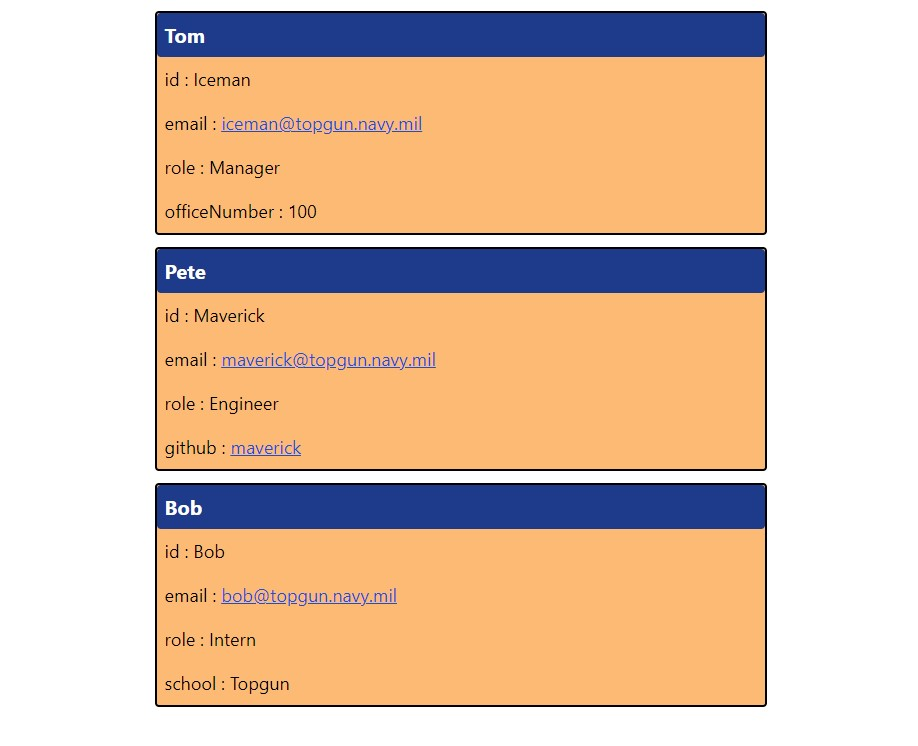
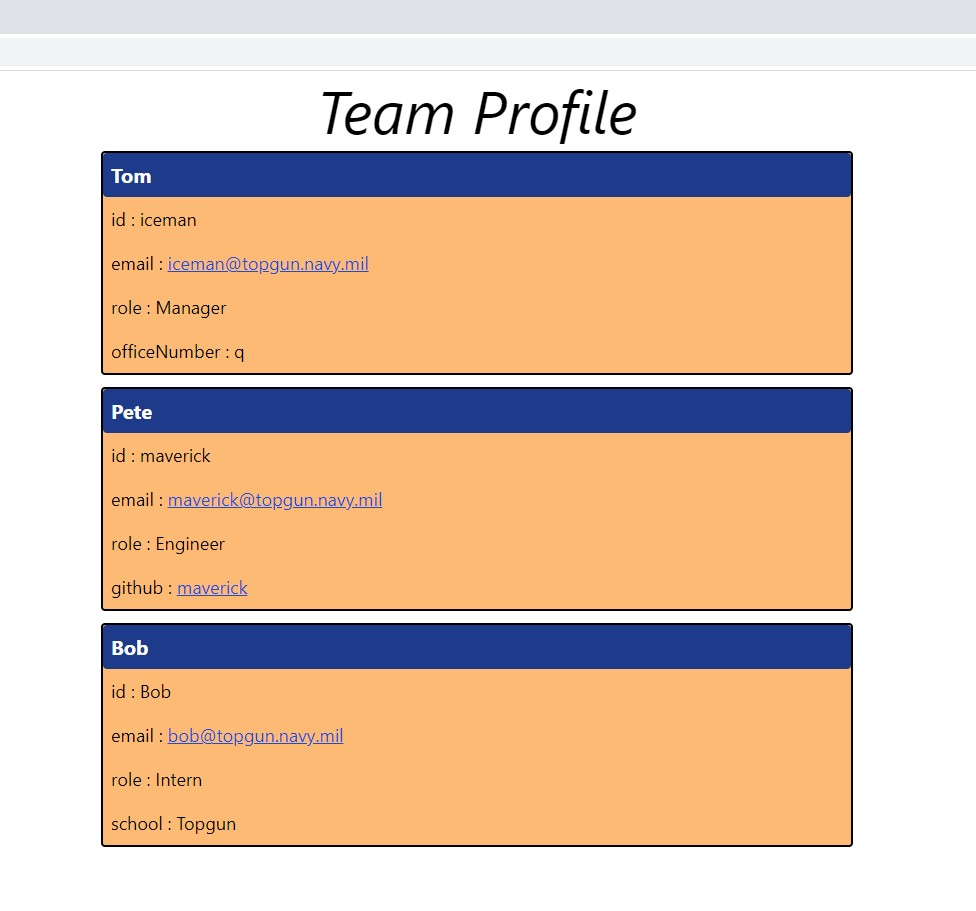
title span

diff --git a/index.html b/index.html
@@ -9,18 +9,19 @@
   </head>
   <body >
       <div class="flex-col align-center m-2 md:flex-row md:justify-center">
+      <span class="flex justify-center text-6xl bolder italic">Team Profile</span>
 
       <div class="flex justify-center m-3">
       <header class="border-solid border-2 border-black rounded bg-orange-300 w-2/5">
-        <p class="flex-start p-2 text-xl bg-blue-900 text-white font-bold rounded"> Tom</p><p class="flex-wrap p-2 text-lg"> id : Iceman</p><p class="flex-wrap p-2 text-lg"> email : <a class="underline text-blue-700" href="mailTo: iceman@topgun.navy.mil?subject=Hello!" alt="iceman@topgun.navy.mil">iceman@topgun.navy.mil</a></p><p class="flex-wrap p-2 text-lg"> role : Manager</p><p class="flex-wrap p-2 text-lg"> officeNumber : 1</p>
+        <p class="flex-start p-2 text-xl bg-blue-900 text-white font-bold rounded"> Tom</p><p class="flex-wrap p-2 text-lg"> id : iceman</p><p class="flex-wrap p-2 text-lg"> email : <a class="underline text-blue-700" href="mailTo: iceman@topgun.navy.mil?subject=Hello!" alt="iceman@topgun.navy.mil">iceman@topgun.navy.mil</a></p><p class="flex-wrap p-2 text-lg"> role : Manager</p><p class="flex-wrap p-2 text-lg"> officeNumber : q</p>
       </header>
     </div><div class="flex justify-center m-3">
       <header class="border-solid border-2 border-black rounded bg-orange-300 w-2/5">
-        <p class="flex-start p-2 text-xl bg-blue-900 text-white font-bold rounded"> Pete</p><p class="flex-wrap p-2 text-lg"> id : Maverick</p><p class="flex-wrap p-2 text-lg"> email : <a class="underline text-blue-700" href="mailTo: maverick@topgun.navy.mil?subject=Hello!" alt="maverick@topgun.navy.mil">maverick@topgun.navy.mil</a></p><p class="flex-wrap p-2 text-lg"> role : Engineer</p><p class="flex-wrap p-2 text-lg"> github : <a class="underline text-blue-700" href="https://github.com/" alt="maverick">maverick</a></p>
+        <p class="flex-start p-2 text-xl bg-blue-900 text-white font-bold rounded"> Pete</p><p class="flex-wrap p-2 text-lg"> id : maverick</p><p class="flex-wrap p-2 text-lg"> email : <a class="underline text-blue-700" href="mailTo: maverick@topgun.navy.mil?subject=Hello!" alt="maverick@topgun.navy.mil">maverick@topgun.navy.mil</a></p><p class="flex-wrap p-2 text-lg"> role : Engineer</p><p class="flex-wrap p-2 text-lg"> github : <a class="underline text-blue-700" href="https://github.com/" alt="maverick">maverick</a></p>
       </header>
     </div><div class="flex justify-center m-3">
       <header class="border-solid border-2 border-black rounded bg-orange-300 w-2/5">
-        <p class="flex-start p-2 text-xl bg-blue-900 text-white font-bold rounded"> Bob</p><p class="flex-wrap p-2 text-lg"> id : Bob</p><p class="flex-wrap p-2 text-lg"> email : <a class="underline text-blue-700" href="mailTo: bob@topgun.com?subject=Hello!" alt="bob@topgun.com">bob@topgun.com</a></p><p class="flex-wrap p-2 text-lg"> role : Intern</p><p class="flex-wrap p-2 text-lg"> school : Topgun</p>
+        <p class="flex-start p-2 text-xl bg-blue-900 text-white font-bold rounded"> Bob</p><p class="flex-wrap p-2 text-lg"> id : Bob</p><p class="flex-wrap p-2 text-lg"> email : <a class="underline text-blue-700" href="mailTo: bob@topgun.navy.mil?subject=Hello!" alt="bob@topgun.navy.mil">bob@topgun.navy.mil</a></p><p class="flex-wrap p-2 text-lg"> role : Intern</p><p class="flex-wrap p-2 text-lg"> school : Topgun</p>
       </header>
     </div>
       </div>

diff --git a/utils/generateHTML.js b/utils/generateHTML.js
@@ -49,6 +49,7 @@ function generateHTML(employees) {
   </head>
   <body >
       <div class="flex-col align-center m-2 md:flex-row md:justify-center">
+      <span class="flex justify-center text-6xl bolder italic">Team Profile</span>
 
       ${cardStack}
       </div>
